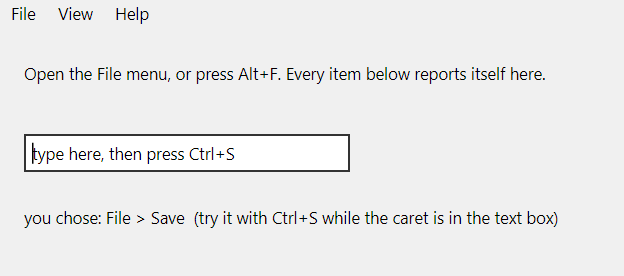
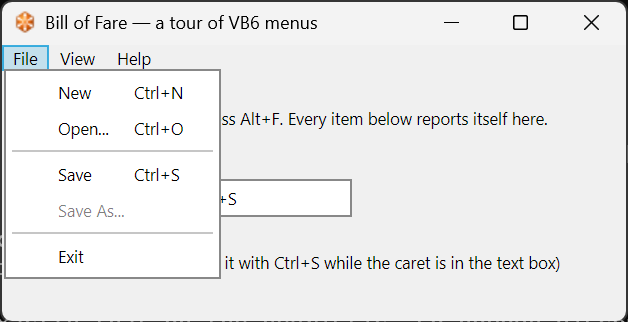
demo: show the menu actually open in bill-of-fare's screenshot
The previous capture showed the menu BAR and a shortcut having fired,
because MCP cannot capture a popup — it is its own top-level window, the
limitation recorded as gap 12 in docs/mcp-server-gaps.md and shared with
issue #61. So the demo's own subject was the one thing missing from the
picture of it.

Replaced with a capture of the File menu open, taken by the maintainer.
It shows both separators as soft grey rules, the shortcuts right-aligned,
and Save As... greyed — every part of which was broken at some point
during #85, in a way no assertion in the suite noticed.

diff --git a/demo/bill-of-fare/README.md b/demo/bill-of-fare/README.md
@@ -6,7 +6,12 @@ until recently and each part broke in a way a passing test could not see.
 
 `Bill of fare` is the old term for a menu, which is the joke and the whole subject.
 
-![the demo running](screenshot.png)
+![the File menu open, showing separators, right-aligned shortcuts and a disabled item](screenshot.png)
+
+Everything in that one frame was broken at some point during
+[#85](https://github.com/hexide-io/HexIDE/issues/85): the bar was empty, then the separators drew nothing,
+then a dot, then near-black. It is here because a picture of an open menu is the only artefact that would
+have caught any of it.
 
 ## What it exercises
 
